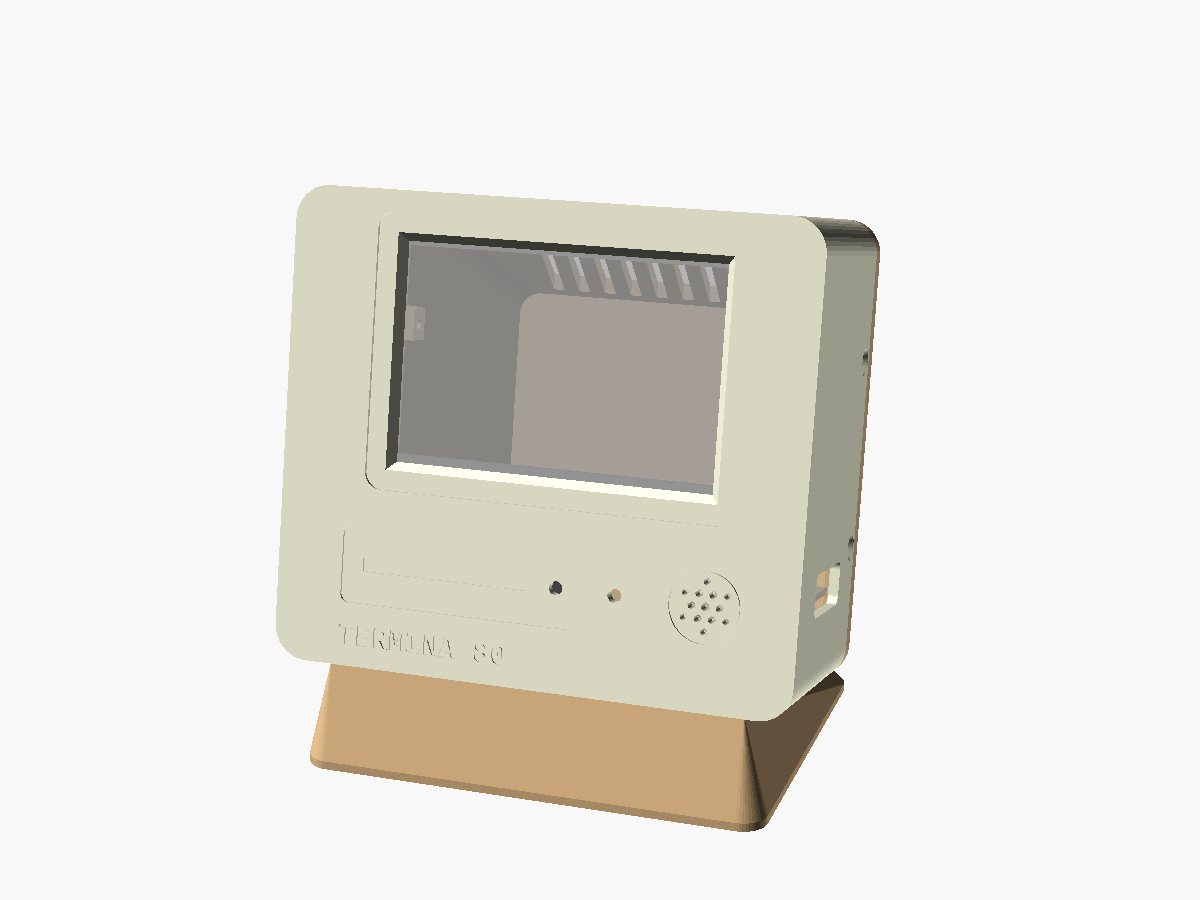
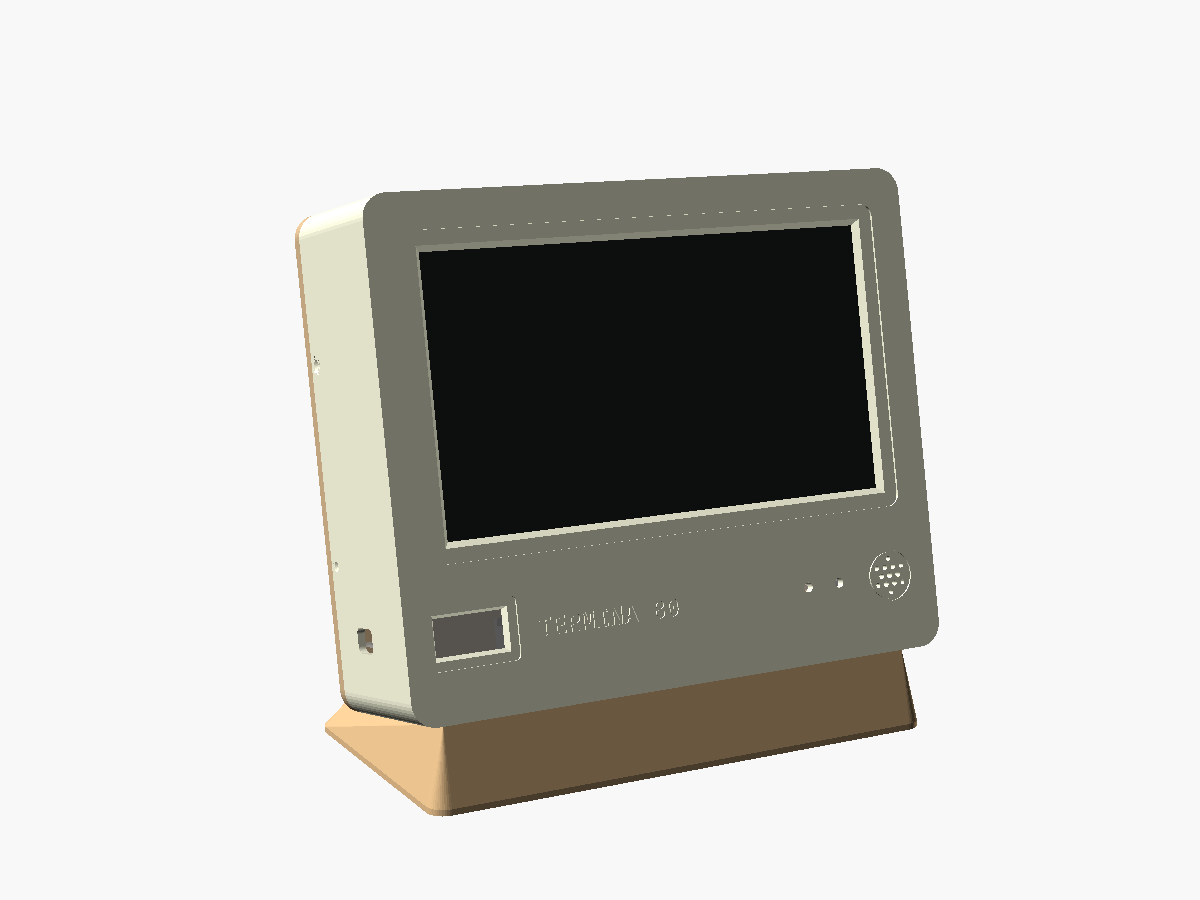
Termina 80 manual: new case with the 7-inch screen and the OLED
New renders of the case (7-inch HDMI screen, OLED status screen on the
chin, Pico 2W on the tray) and the text that goes with them.

diff --git a/termina80/index.html b/termina80/index.html
@@ -428,15 +428,15 @@ A&gt;git clone https://github.com/rxi/json.lua &amp;
     <div class="head">
       <div class="eyebrow">Design</div>
       <h2>Period beige. <em>Printed at home.</em></h2>
-      <p>An OpenSCAD case with its stand. The disk and network LEDs sit on the floppy drive chin, a grille lets the buzzer sing, and the board rides on a tray with its USB ports through the right wall.</p>
+      <p>An OpenSCAD case with its stand, built around a 7" HDMI screen (Waveshare 7inch HDMI LCD (C)). The chin holds the OLED status screen on the left, then the disk and network LEDs and a grille that lets the buzzer sing. Inside, the ESP32-S3 and the Pico 2W video card ride on a tray, their USB ports through the side walls, and the Pico's HDMI plug goes straight into the screen.</p>
     </div>
-    <img class="shot" src="img/preview.png" alt="3D render of the TERMINA 80 case from the front, beige on a brown stand, with the LEDs and buzzer grille on the chin">
+    <img class="shot" src="img/preview.png" alt="3D render of the TERMINA 80 case from the front, beige on a brown stand, with the 7-inch screen, the OLED status screen, the LEDs and the buzzer grille">
     <div class="row">
-      <figure><img src="img/preview_side.png" alt="The case from the side, with the board's USB ports in the right wall"><figcaption>Side · USB through the right wall</figcaption></figure>
-      <figure><img src="img/preview_back.png" alt="The case from the back, with the engraved label"><figcaption>Back · engraved label</figcaption></figure>
-      <figure><img src="img/preview_tray.png" alt="The electronics tray that holds the DevKitC-1"><figcaption>Tray · ESP32-S3 DevKitC-1</figcaption></figure>
+      <figure><img src="img/preview_side.png" alt="The case from the left side, with the Pico 2W's USB port in the left wall"><figcaption>Side · USB through both walls</figcaption></figure>
+      <figure><img src="img/preview_back.png" alt="The case from the back, with its vents and the engraved label"><figcaption>Back · vents and engraved label</figcaption></figure>
+      <figure><img src="img/preview_tray.png" alt="The electronics tray that holds the DevKitC-1 and the Pico 2W"><figcaption>Tray · ESP32-S3 and Pico 2W</figcaption></figure>
     </div>
-    <p class="note">The sources are in <code>case/</code>: <code>termina_case.scad</code> for OpenSCAD, plus STL files for the body, the back, the stand, the clamp and the board tray.</p>
+    <p class="note">The sources are in <code>case/</code>: <code>termina_case.scad</code> for OpenSCAD, plus STL files for the body, the back, the stand, the screen bars, the board tray and a test front plate to check the screen and OLED fit first.</p>
   </div>
 </section>
 
